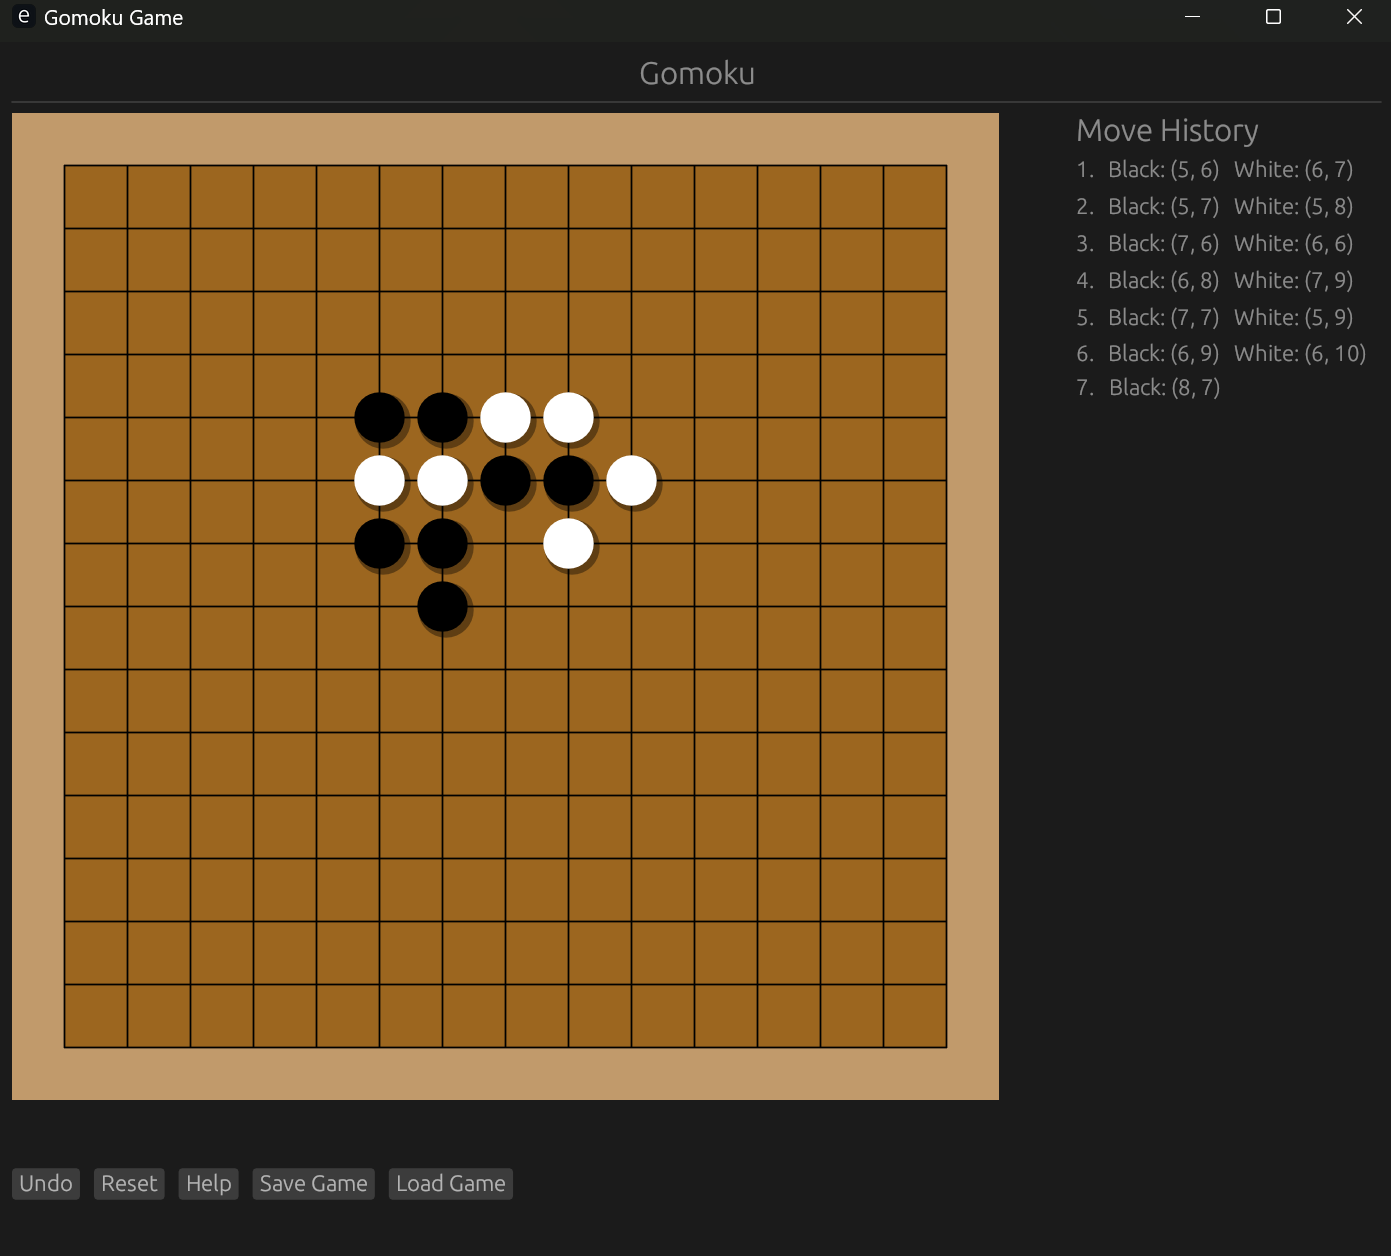
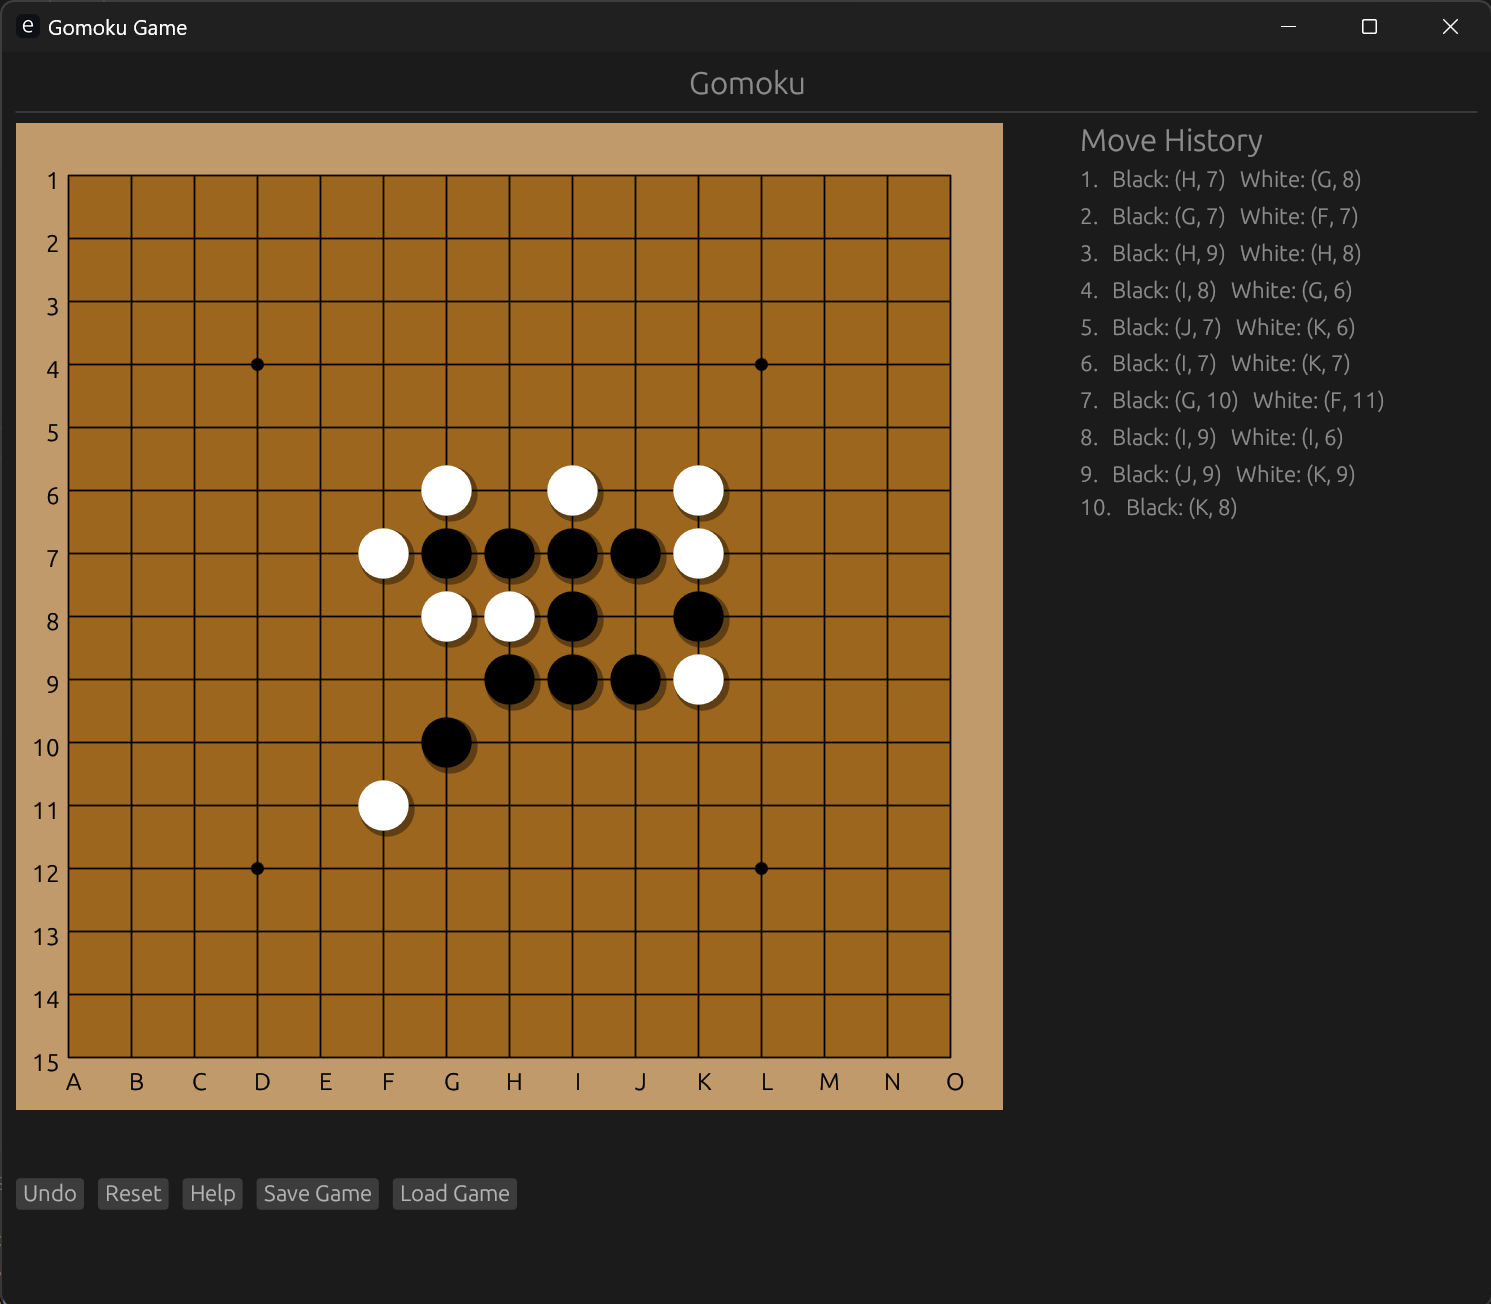
ui and readme improvements

diff --git a/src/main.rs b/src/main.rs
@@ -44,6 +44,13 @@ impl Default for GomokuApp {
     }
 }
 
+/// Converts a column index to a corresponding letter (A, B, C, ...).
+/// Assumes 0-based indexing for columns.
+fn column_index_to_letter(index: usize) -> char {
+    // Add the index to the ASCII value of 'A' and convert to a character.
+    (b'A' + index as u8) as char
+}
+
 impl GomokuApp {
     fn save_game_as(&self) {
         // Specify a default filename and a filter for JSON files
@@ -87,6 +94,16 @@ impl GomokuApp {
                     ui.label("The objective of Gomoku is to be the first player to get five stones in a row, either horizontally, vertically, or diagonally.");
                     ui.label("\nPlayers take turns placing a stone of their color on an empty intersection.");
                     ui.label("\nThe game ends when one player forms an unbroken chain of five stones, or if all intersections are filled without a winner.");
+
+                    ui.separator();
+
+                    ui.heading("Optional Tournament Rules");
+                    ui.label("To limit first move advantage, additionally consider using one of these rules:");
+                    
+                    ui.label("\nPro Rule: The first player's first stone must be placed in the center. The second player's first stone can go anywhere. The first player's second stone must be three intersections away from the first.");
+                    ui.label("\nLong Pro Rule: Similar to Pro, but the second stone must be four intersections away.");
+                    ui.label("\nSwap: The first player places three stones (two black, one white) anywhere. The second player chooses their color.");
+                    ui.label("\nSwap2: The first player places three stones, two black and one white. The second player has three options: Choose white and place a second white stone, swap colors, or place two more stones (one of each color) and let the first player choose the color.");
                 });
         }
     }
@@ -210,6 +227,45 @@ impl eframe::App for GomokuApp {
                         painter.line_segment([start, end], (1.0, egui::Color32::BLACK));
                     }
 
+                    // Guide points for the board
+                    let points = vec![
+                        (BOARD_SIZE / 2, BOARD_SIZE / 2), // Center point
+                        (3, 3), (3, BOARD_SIZE - 4),      // Corner points
+                        (BOARD_SIZE - 4, 3), (BOARD_SIZE - 4, BOARD_SIZE - 4),
+                    ];
+                    let point_radius = cell_size / 10.0; // Size of the point
+                    for &(x, y) in &points {
+                        let center = rect.left_top() + egui::vec2(y as f32 * cell_size, x as f32 * cell_size);
+                        painter.circle_filled(center, point_radius, egui::Color32::BLACK);
+                    }
+
+                    // Row indicators (Numbers), positioned to the left of the board
+                    for i in 0..BOARD_SIZE {
+                        let text = format!("{}", i + 1); // Rows numbered from 1 to BOARD_SIZE
+                        let x_pos = rect.left() - 5.0; // A fixed offset to the left of the board
+                        let y_pos = rect.top() + i as f32 * cell_size + cell_size / 2.0 - 15.0;
+                        painter.text(
+                            egui::pos2(x_pos, y_pos),
+                            egui::Align2::RIGHT_CENTER,
+                            text,
+                            egui::FontId::default(),
+                            egui::Color32::BLACK,
+                        );
+                    }
+
+                    for i in 0..BOARD_SIZE {
+                        let text = column_index_to_letter(i).to_string(); // Convert column number to letter
+                        let x_pos = rect.left() + i as f32 * cell_size + cell_size / 2.0 - 15.0; 
+                        let y_pos = rect.bottom() - 30.0;
+                        painter.text(
+                            egui::pos2(x_pos, y_pos),
+                            egui::Align2::CENTER_TOP,
+                            text,
+                            egui::FontId::default(),
+                            egui::Color32::BLACK,
+                        );
+                    }
+
                     // Stones
                     for i in 0..BOARD_SIZE {
                         for j in 0..BOARD_SIZE {
@@ -309,48 +365,42 @@ impl eframe::App for GomokuApp {
                     ui.heading("Move History");
                     let move_pairs = self.history.chunks(2);
                     let mut turn_number = 1;
-
+                
                     for pair in move_pairs {
                         match pair {
                             [black_move, white_move] => {
                                 ui.horizontal(|ui| {
                                     ui.label(format!("{}.", turn_number));
+                                    let black_col_letter = column_index_to_letter(black_move.2 .1);
                                     ui.label(format!(
                                         "Black: ({}, {})",
-                                        black_move.2 .0 + 1,
-                                        black_move.2 .1 + 1
+                                        black_col_letter,
+                                        black_move.2 .0 + 1
                                     ));
+                                    let white_col_letter = column_index_to_letter(white_move.2 .1);
                                     ui.label(format!(
                                         "White: ({}, {})",
-                                        white_move.2 .0 + 1,
-                                        white_move.2 .1 + 1
+                                        white_col_letter,
+                                        white_move.2 .0 + 1
                                     ));
                                 });
                                 turn_number += 1;
                             }
                             [last_move] => {
-                                // Handle the case where there's an odd number of moves
+                                let col_letter = column_index_to_letter(last_move.2 .1);
                                 let label = match last_move.1 {
                                     Player::Black => {
                                         format!("{}.   ", turn_number)
-                                            + &format!(
-                                                "Black: ({}, {})",
-                                                last_move.2 .0 + 1,
-                                                last_move.2 .1 + 1
-                                            )
+                                            + &format!("Black: ({}, {})", col_letter, last_move.2 .0 + 1)
                                     }
                                     Player::White => {
                                         format!("{}.   ", turn_number)
-                                            + &format!(
-                                                "White: ({}, {})",
-                                                last_move.2 .0 + 1,
-                                                last_move.2 .1 + 1
-                                            )
+                                            + &format!("White: ({}, {})", col_letter, last_move.2 .0 + 1)
                                     }
                                 };
                                 ui.label(label);
                             }
-                            _ => {} // This case should never be hit due to how chunking works
+                            _ => {}
                         }
                     }
                 });

diff --git a/README.md b/README.md
@@ -53,6 +53,37 @@ Upon starting the game, you will be presented with a 15x15 board. The game start
 - **Save Game**: Saves the current game state to a file.
 - **Load Game**: Loads a game state from a file.
 
+## Optional Tournament Rules
+
+For players looking to mitigate the first player advantage, the following tournament rules can be optionally followed:
+
+### Pro Rule
+
+- **First Move**: The first player's first stone must be placed in the center of the board.
+- **Second Move**: The second player's first stone may be placed anywhere on the board.
+- **Third Move**: The first player's second stone must be placed at least three intersections away from the first stone, meaning there should be two empty intersections between the two stones.
+
+### Long Pro Rule
+
+- **First Move**: Similar to the Pro rule, the first player's first stone is placed in the center of the board.
+- **Second Move**: The second player's first stone may be placed anywhere on the board.
+- **Third Move**: The first player's second stone must be placed at least four intersections away from the first stone, requiring three empty intersections between the two stones.
+
+### Swap
+
+- The tentative first player places three stones on the board (two black and one white) in any configuration.
+- The tentative second player then chooses which color to play as, and the game proceeds with the second player as white playing their second stone.
+
+### Swap2
+
+- **Initial Placement**: The tentative first player places three stones on the board, two black and one white.
+- **Second Player's Options**:
+    1. Choose to play as white and place a second white stone.
+    2. Swap colors, choosing to play as black.
+    3. Place two more stones, one black and one white, and pass the choice of which color to play back to the tentative first player.
+
+This protocol limits the advantage of excessive preparation by one player, as the second player's choice, especially with option 3, introduces uncertainty regarding the initial stone placements.
+
 ## License
 
 This project is open source and available under the [MIT License](LICENSE).
